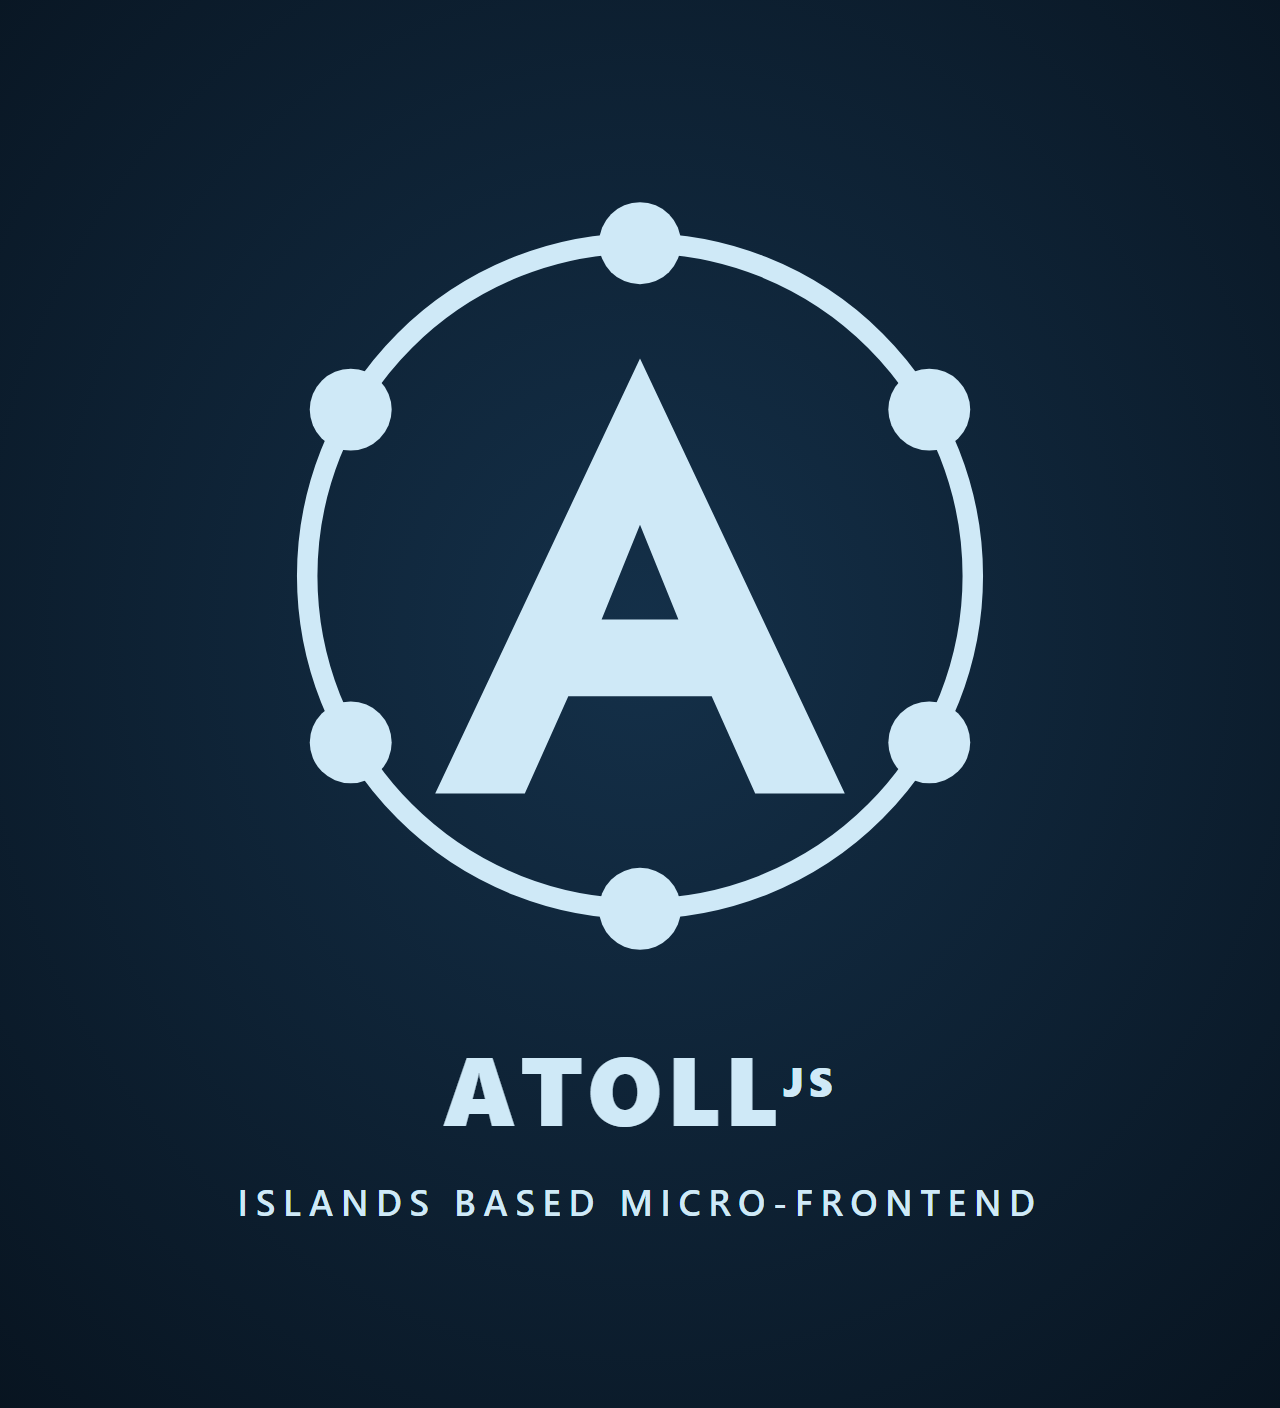
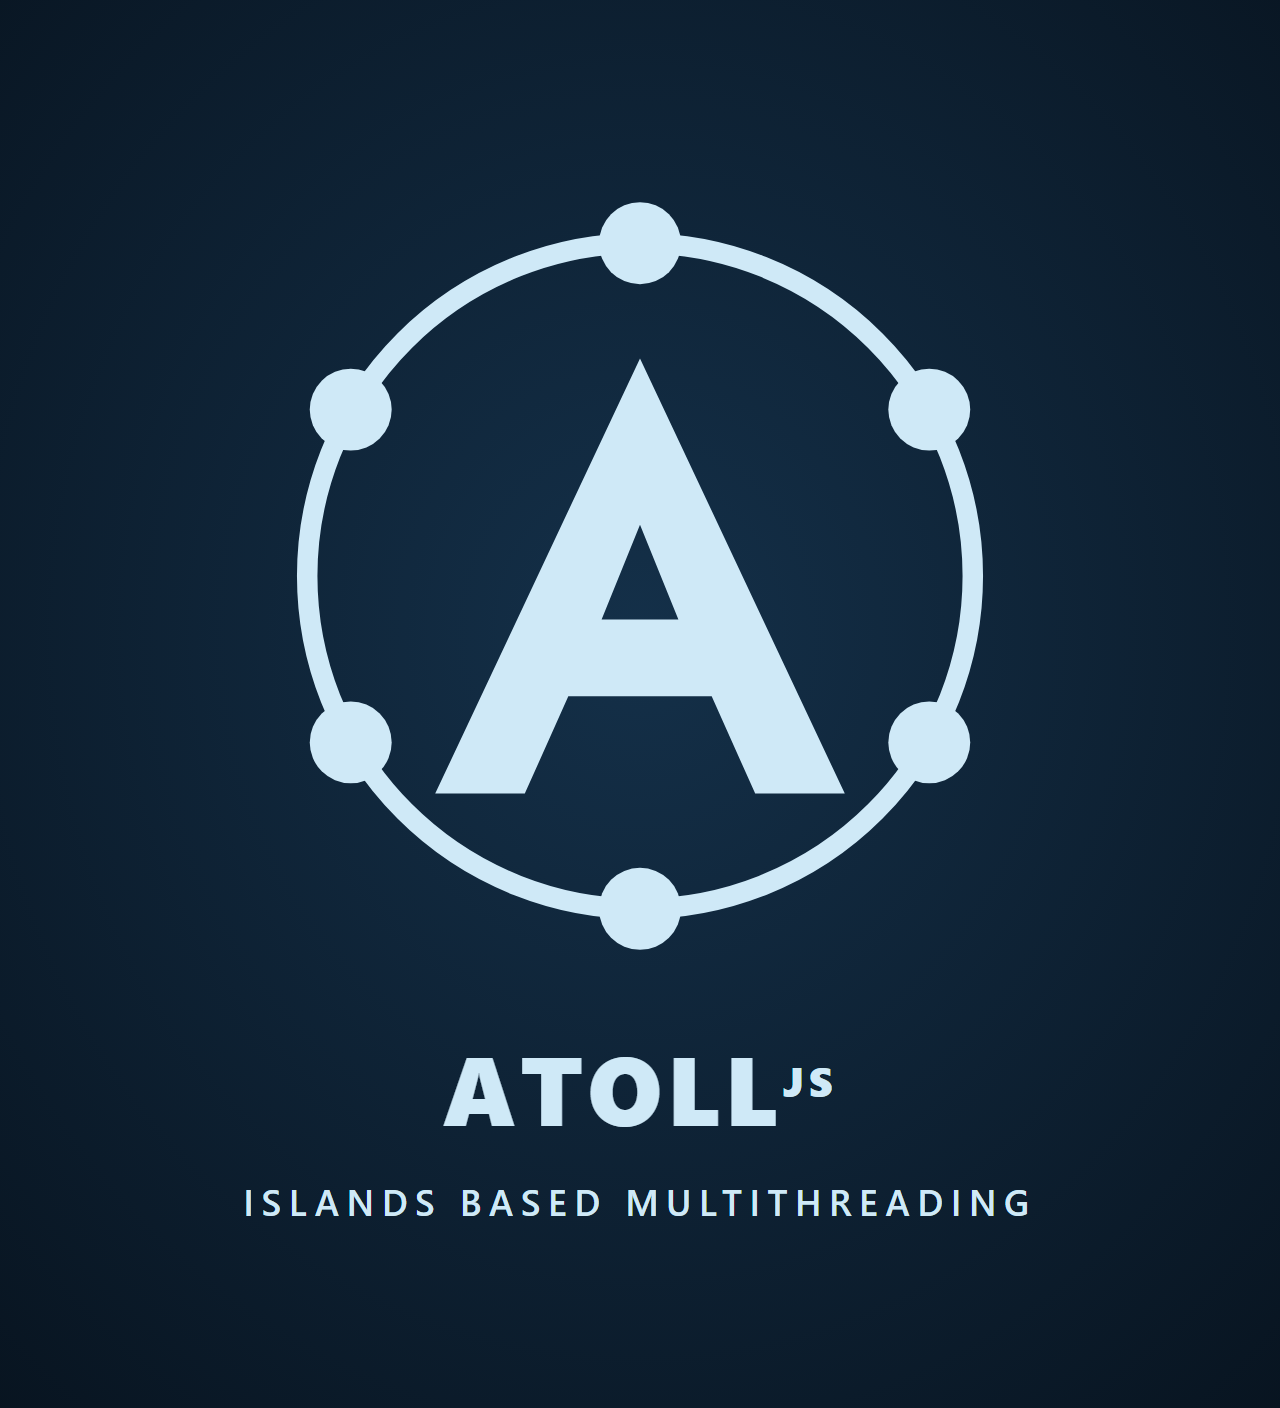
updated branding

Changed region(s): [[0.1875, 0.8438, 0.8125, 0.875]]

diff --git a/CHANGELOG.md b/CHANGELOG.md
@@ -138,6 +138,9 @@ single-purpose and lives beside the module that spawns it:
   section, the site is dark-only, and each page embeds a single live demo:
   the framework-free shell (`index.html`) is the canonical demo on the
   Islands overview rather than a stacked set per page.
+- Branding — the logo tagline is now "islands based multithreading"
+  (regenerated the full SVG/PNG family: brand, horizontal, compact,
+  transparent, and social rasters).
 
 ### Tooling
 
